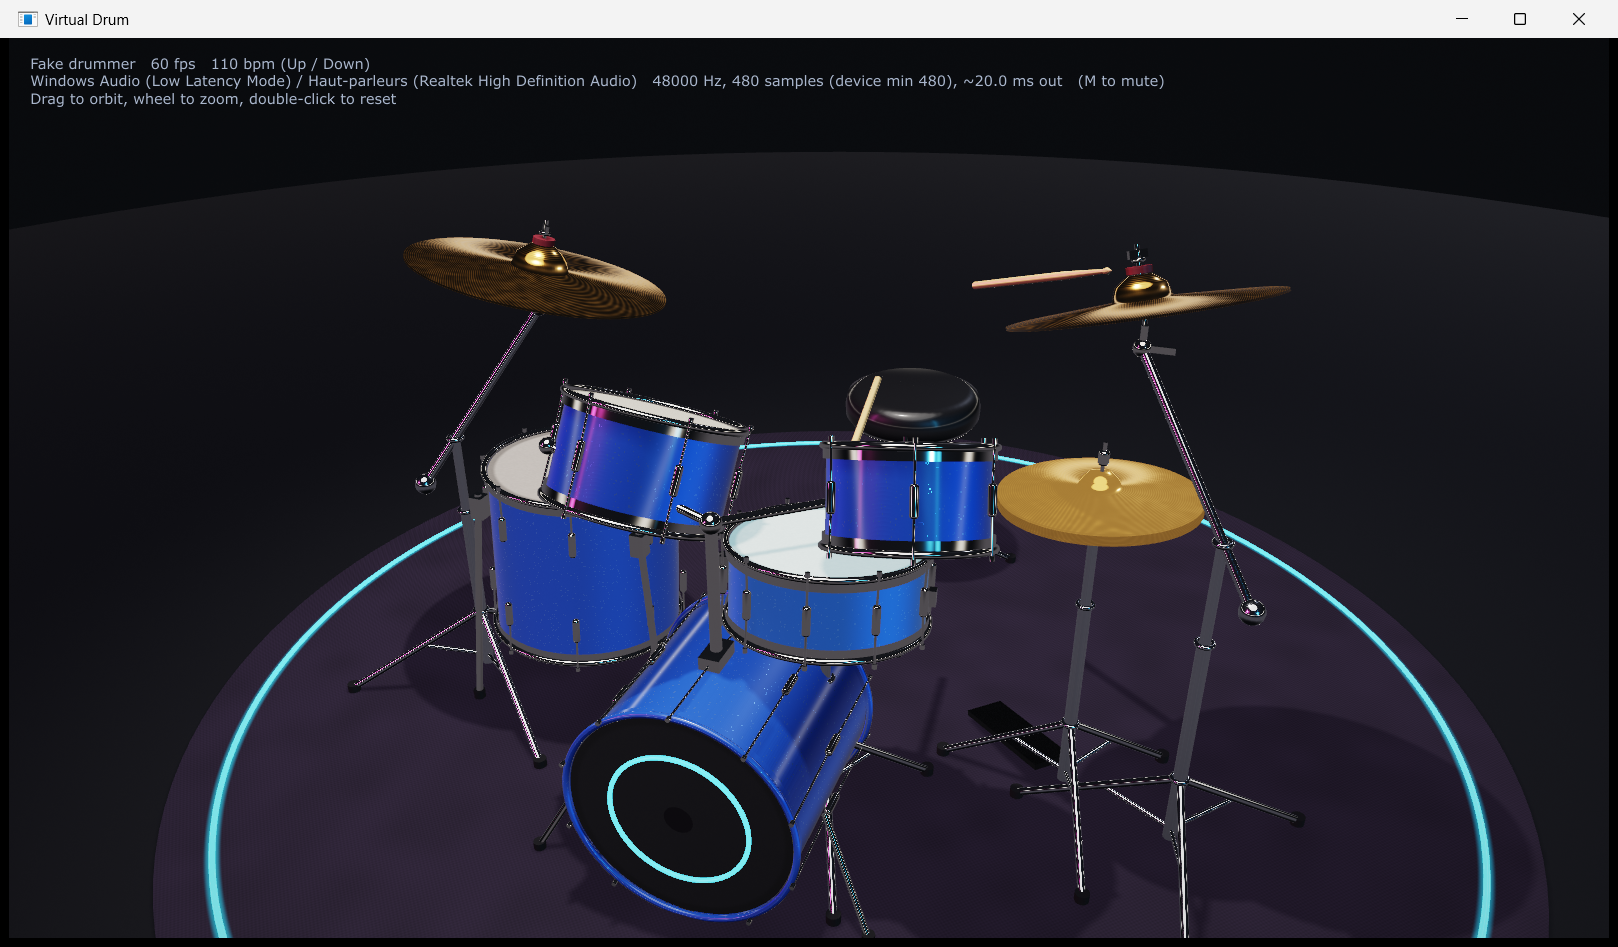
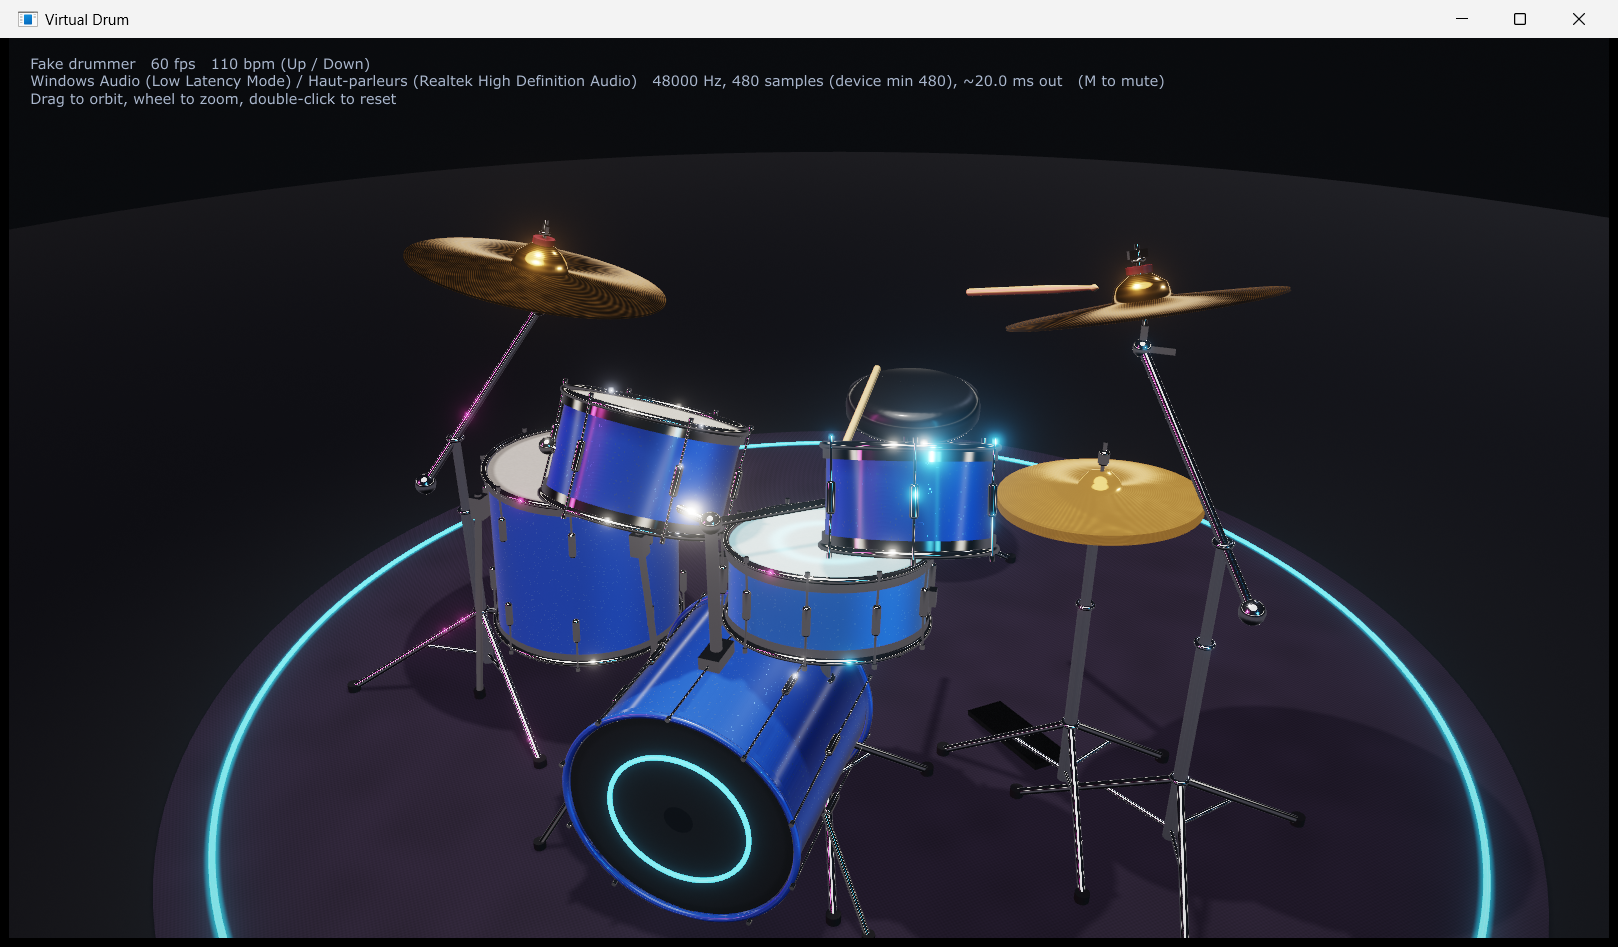
Backlog: TASK-020 done; update captures

diff --git a/BACKLOG.md b/BACKLOG.md
@@ -39,15 +39,14 @@ validation "sur cible" (flash, mesures) attend le matériel.
   > Hardware requis.
   > Blocked by: TASK-010 (analyse), TASK-007/008/009 (chaîne complète)
 
-- [ ] TASK-020 | host : bloom et animations au coup
-  > Un HIT déclenche un flash avec halo (bloom) sur le pad visé, intensité selon la
-  > vélocité, décroissance. Vibration des cymbales, particules optionnelles. 60 fps.
-  > Blocked by: TASK-019 (bloom réglé sur les matériaux émissifs)
-
 ## IN PROGRESS
 ## ON HOLD
 
 ## DONE
+- [x] TASK-020 | host : bloom et animations au coup
+  > Merged in: devape (2026-10-29). Bloom HDR (pyramide 6 niveaux), anneau lumineux sur les peaux,
+  > balancement amorti des cymbales. Audio ouvert 1,5 s après le démarrage (la scène s'affiche
+  > d'abord), option --no-audio. Particules non faites (optionnelles).
 - [x] TASK-023 | host : modèles procéduraux détaillés du kit
   > Merged in: devape (2026-10-29). Cercles, coquilles, tirants, grosse caisse avec pédale et logo
   > néon, support de toms, tom basse sur pieds, tripodes, pieds à perche dégagés des pads,
